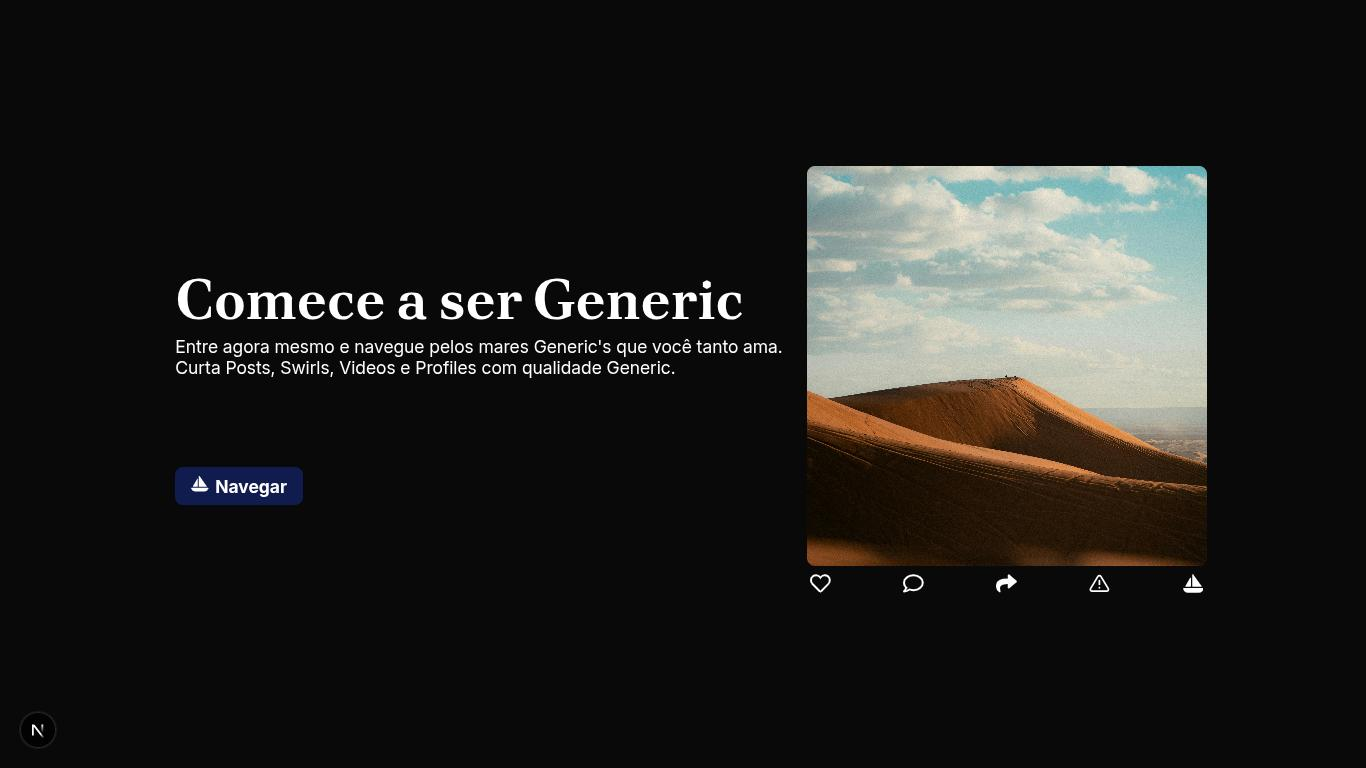
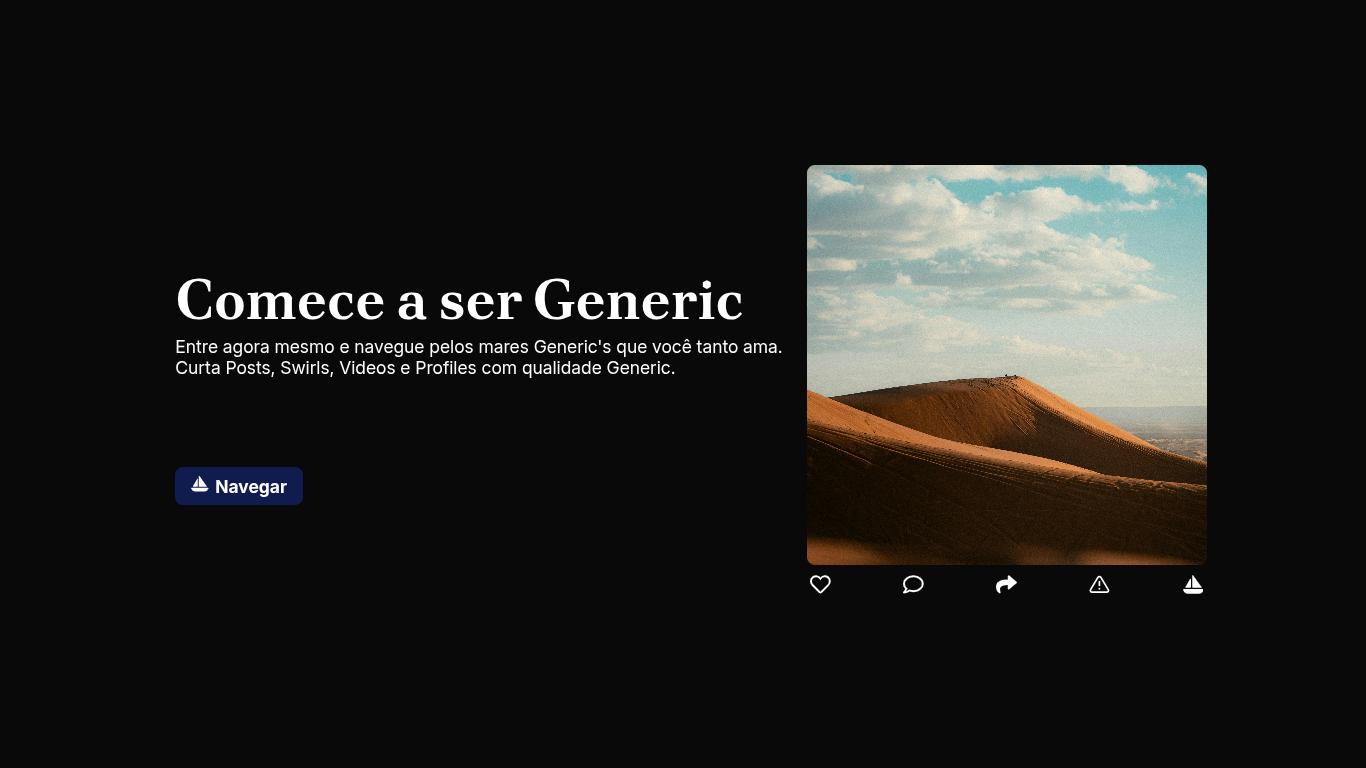
atualizando historico

diff --git a/code/frontend/components/TwoPartSection/TwoPartSection.module.css b/code/frontend/components/TwoPartSection/TwoPartSection.module.css
@@ -1,5 +1,4 @@
 .twoPartSection{
-
     min-width: 60vw;
 
     display: flex;
@@ -11,7 +10,6 @@
     box-shadow: 1px 3px 15px 5px #1d1d1d;
     border-radius: .5rem;
     overflow: hidden;
-
 }
 
 .imagePart{

diff --git a/historical/README.md b/historical/README.md
@@ -10,11 +10,17 @@
 
 <img src="printscreens/home.jpg">
 
-Página inicial que convoca os usuários a serem Generic. Obrigado logo do next por ter aparecido na hora de tirar as prints ;)
+Página inicial que convoca os usuários a serem Generic.
 
 ### Registro:
 
 <img src="printscreens/register.jpg">
+
+Tela *atual de login (falat sicronizar com backend)
+
+### Login:
+
+<img src="printscreens/login.jpg">
 
 Tela *atual de login (falat sicronizar com backend)
 